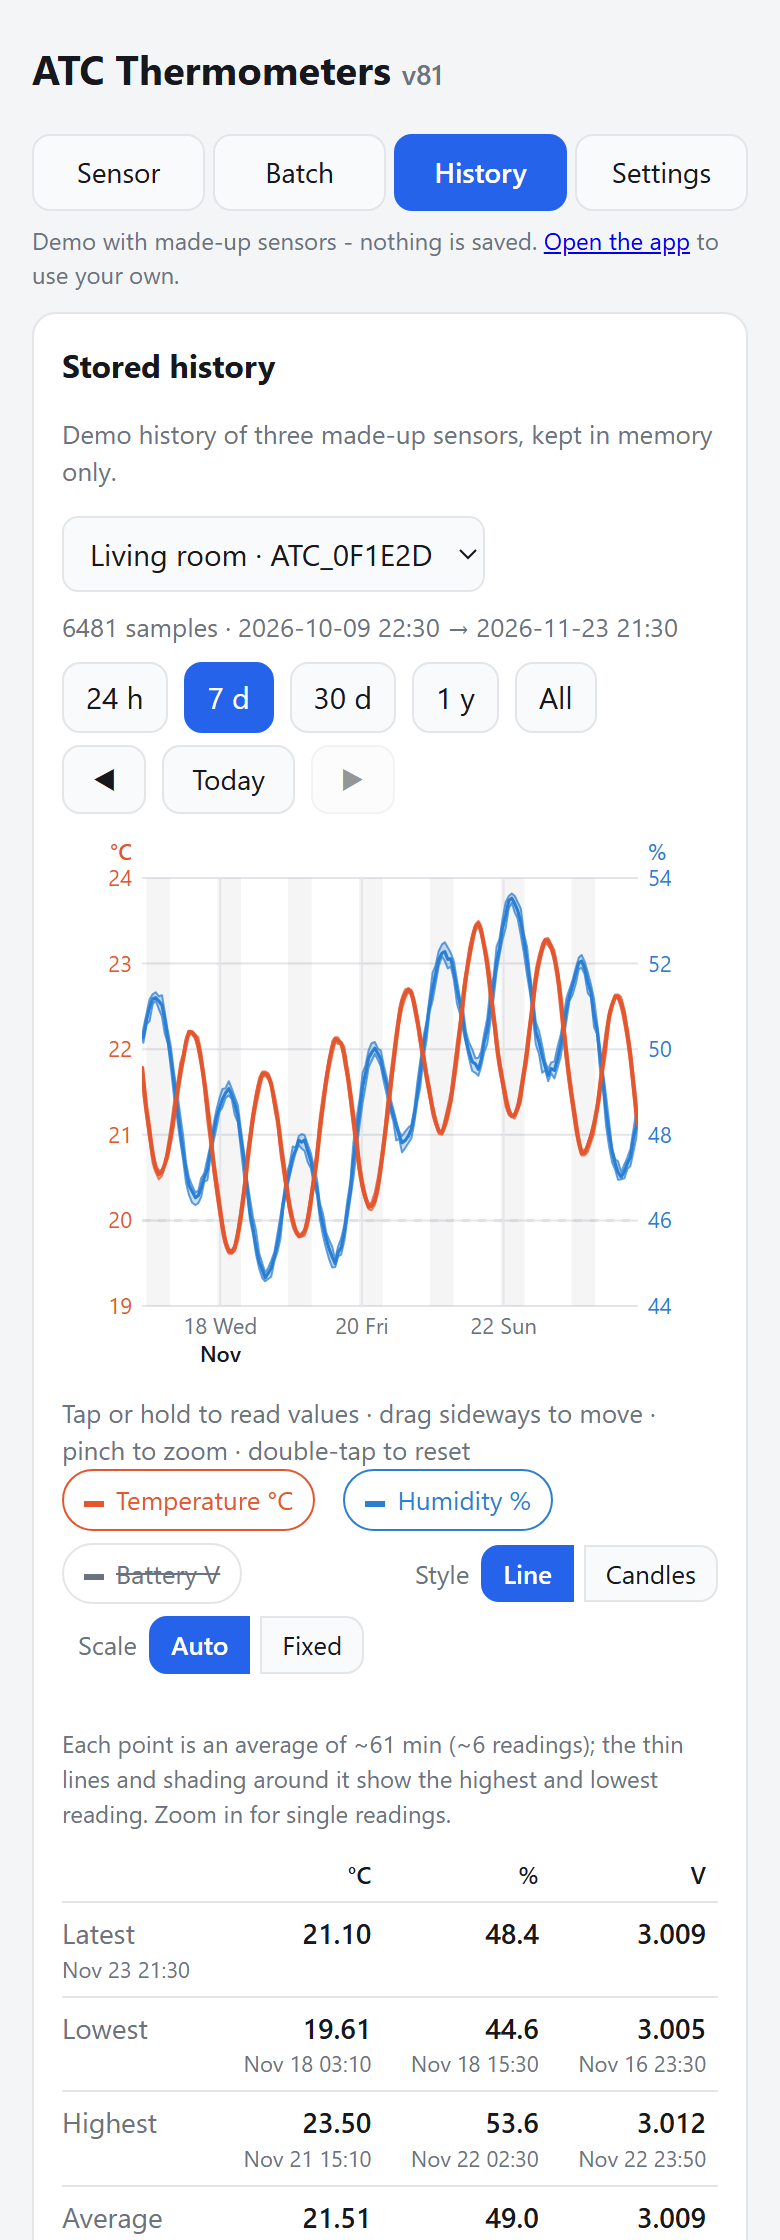
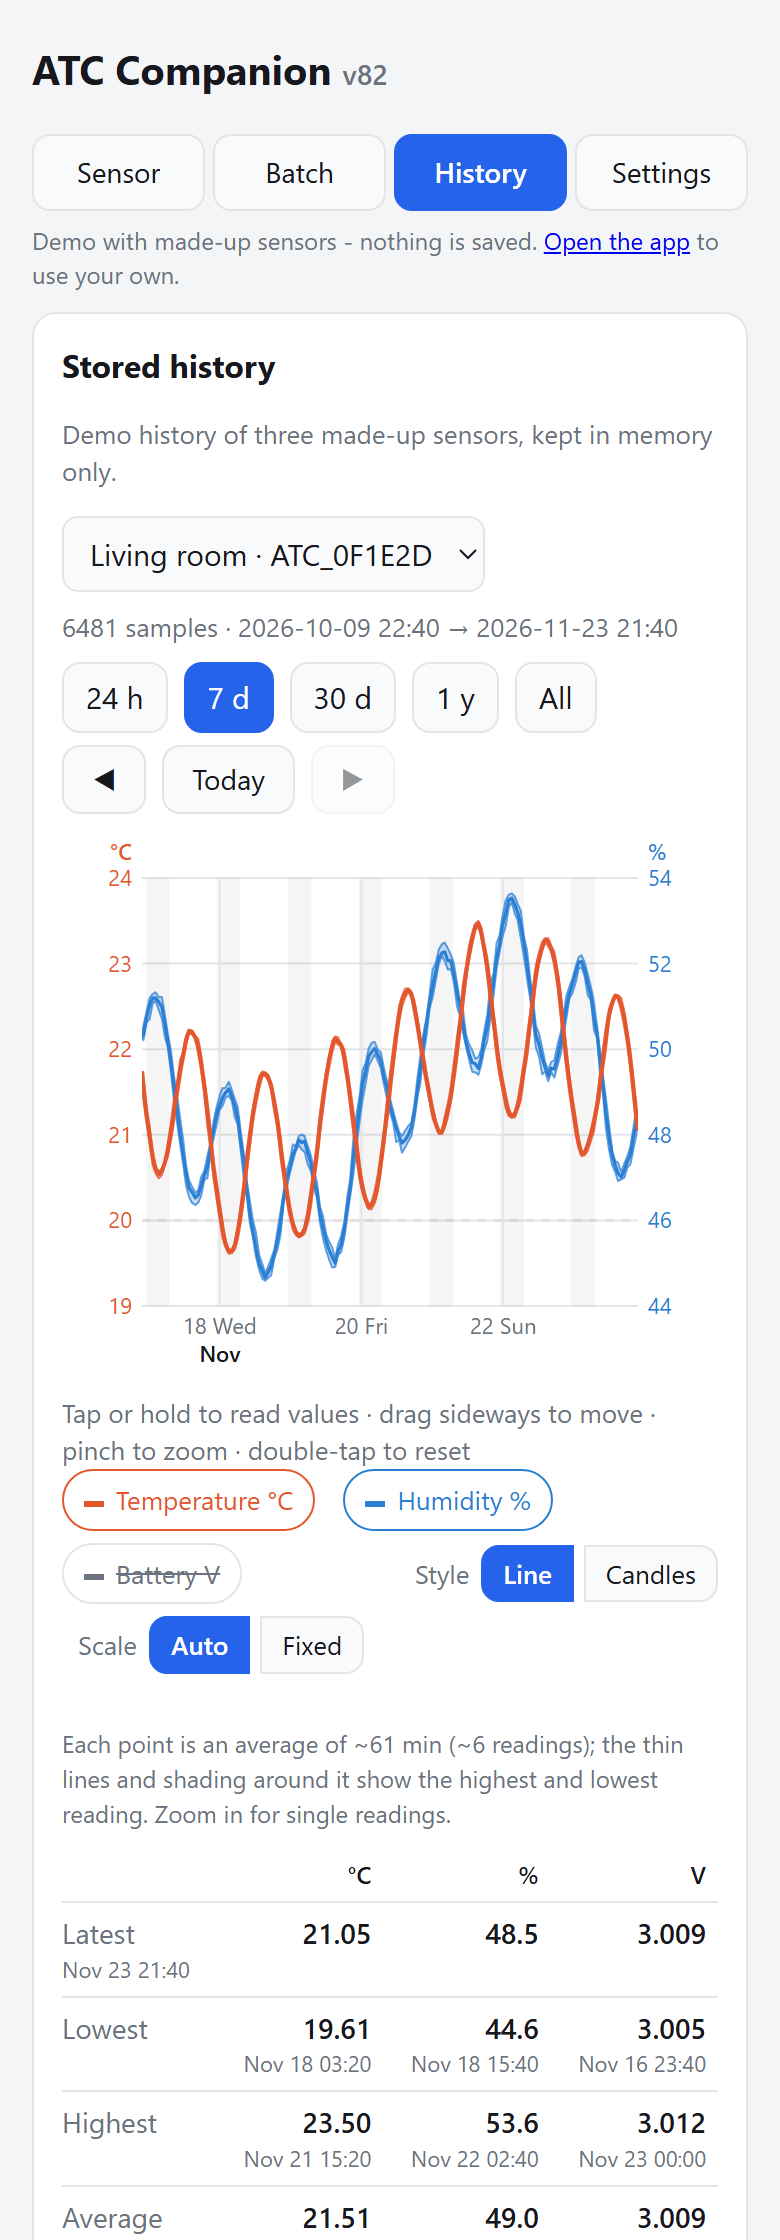
Rename to ATC Companion (v82)

diff --git a/index.html b/index.html
@@ -4,7 +4,7 @@
 <meta charset="utf-8">
 <meta name="viewport" content="width=device-width, initial-scale=1, viewport-fit=cover">
 <meta name="theme-color" content="#0f172a">
-<title>ATC Thermometers</title>
+<title>ATC Companion</title>
 <style>
 :root {
   --bg: #f4f5f7; --card: #ffffff; --text: #16181d; --muted: #6b7280; --line: #e3e5e9;
@@ -140,7 +140,7 @@ body[data-tab="all"] #knownList .ks > button { display: none; }
 </head>
 <body>
 <main>
-  <h1>ATC Thermometers <span class="muted" id="appVersionTop" style="font-weight:500;font-size:14px"></span></h1>
+  <h1>ATC Companion <span class="muted" id="appVersionTop" style="font-weight:500;font-size:14px"></span></h1>
   <nav class="tabs" id="tabs">
     <button data-go="single">Sensor</button>
     <button data-go="all">Batch</button>
@@ -465,7 +465,7 @@ body[data-tab="all"] #knownList .ks > button { display: none; }
 </main>
 
 <!-- Pure logic (also used by the tests); the ?v= makes phones fetch the new copy with each release. -->
-<script src="core.js?v=81"></script>
+<script src="core.js?v=82"></script>
 <script>
 "use strict";
 // ===== Protocol constants (see ATC_MiThermometer_tools.py) =====
@@ -572,7 +572,7 @@ async function mergeInto(dev, newSamples) {
 // ===== Logging =====
 // Detailed debug log: every BLE packet in hex, connection-step timings, browser capabilities, errors
 // with stacks. Kept across page reloads (last LOG_MAX lines) so a crash or iOS reload doesn't lose it.
-const APP_VERSION = 81;  // also bump core.js?v= in the <script> tag above
+const APP_VERSION = 82;  // also bump core.js?v= in the <script> tag above
 const LOG_MAX = 4000;
 const logLines = lsGet("debugLog", []);
 let logDirty = false;
@@ -2652,7 +2652,7 @@ function setupChartGestures() {
 }
 
 // ===== Wire up =====
-function logText() { return `ATC Thermometers debug log (app version ${APP_VERSION}, exported ${new Date().toString()})\n${navigator.userAgent}\n\n${logLines.join("\n")}\n`; }
+function logText() { return `ATC Companion debug log (app version ${APP_VERSION}, exported ${new Date().toString()})\n${navigator.userAgent}\n\n${logLines.join("\n")}\n`; }
 function sendLog() {
   const name = `atc_debug_log_${stamp()}.txt`, text = logText();
   const file = new File([text], name, { type: "text/plain" });
@@ -2662,7 +2662,7 @@ function sendLog() {
     if (e && e.name === "AbortError") { $("logMsg").textContent = "Cancelled."; return; }
     $("logMsg").textContent = "Share failed (" + describeErr(e) + "); use Copy log instead.";
   };
-  if (canFiles) navigator.share({ files: [file], title: "ATC debug log", text: "ATC Thermometers debug log attached." }).then(ok, fail);
+  if (canFiles) navigator.share({ files: [file], title: "ATC debug log", text: "ATC Companion debug log attached." }).then(ok, fail);
   else if (navigator.share) navigator.share({ title: "ATC debug log", text }).then(ok, fail);
   else downloadFiles([{ name, text }]);
 }

diff --git a/README.md b/README.md
@@ -1,8 +1,8 @@
-# atc-thermo
+# ATC Companion
 
-Read and chart the history of a **Xiaomi Mi Temperature and Humidity Monitor 2** (LYWSD03MMC) on an **iPhone**: no app store, no Mac, no cloud.
+A companion for [pvvx's ATC firmware](https://github.com/pvvx/ATC_MiThermometer): read and chart the history of a **Xiaomi Mi Temperature and Humidity Monitor 2** (LYWSD03MMC) on an **iPhone**, with no app store, no Mac and no cloud, plus a [command-line tool](python/) for the computer.
 
-**Open the app:** https://adam-nemeth.github.io/atc-thermo/ · **Try it without a sensor:** [demo](https://adam-nemeth.github.io/atc-thermo/?demo)
+**Open the app:** https://adam-nemeth.github.io/atc-companion/ · **Try it without a sensor:** [demo](https://adam-nemeth.github.io/atc-companion/?demo)
 
 <p>
   <img src="screenshots/sensor.png" width="270" alt="Sensor tab: latest values per room, sensor list with log fill level">
